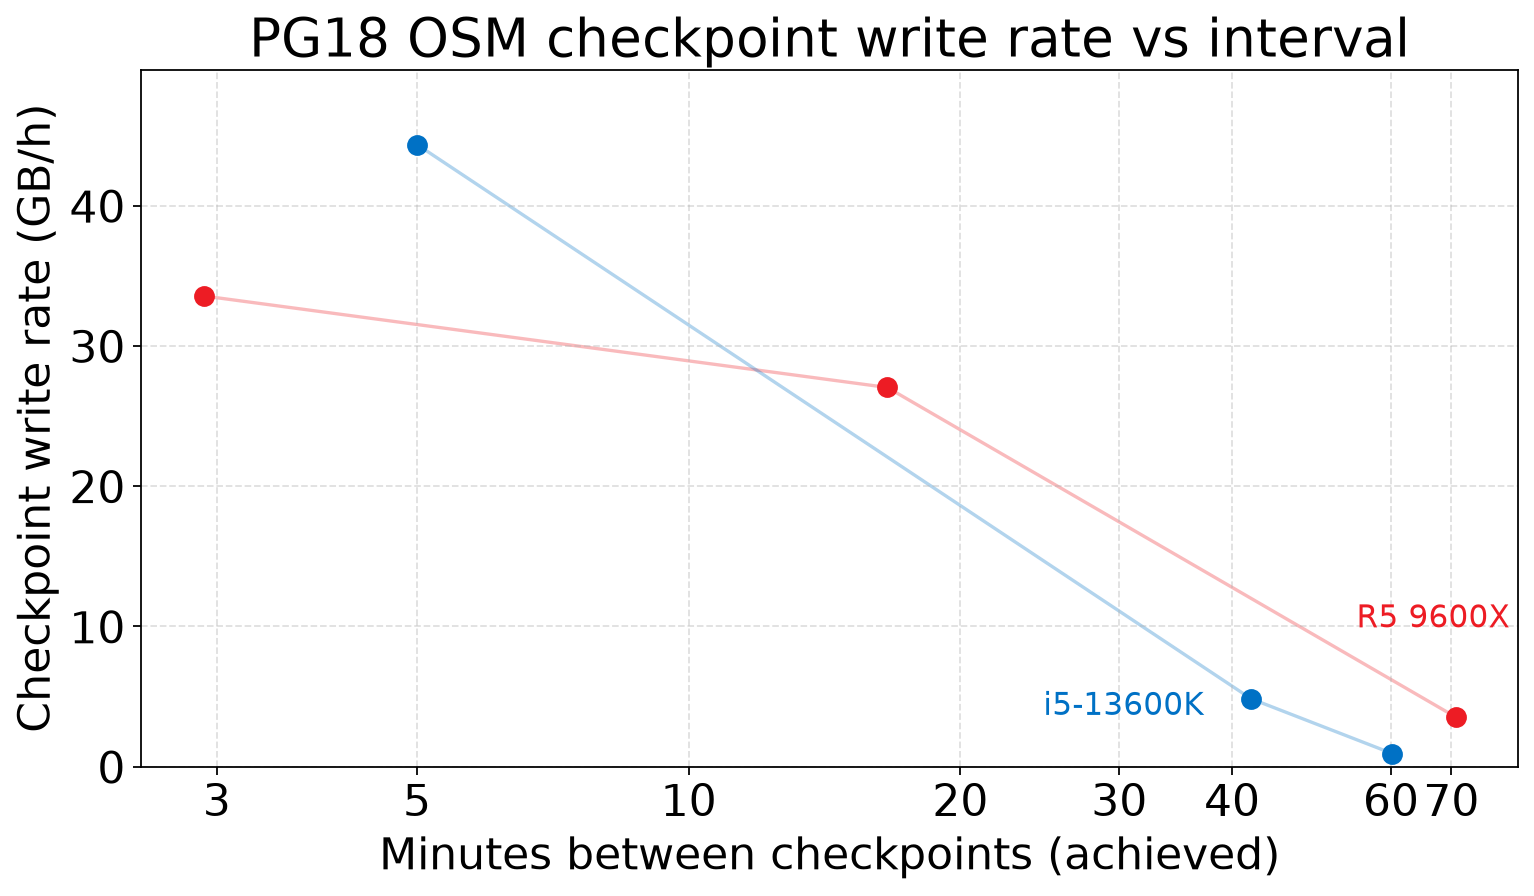
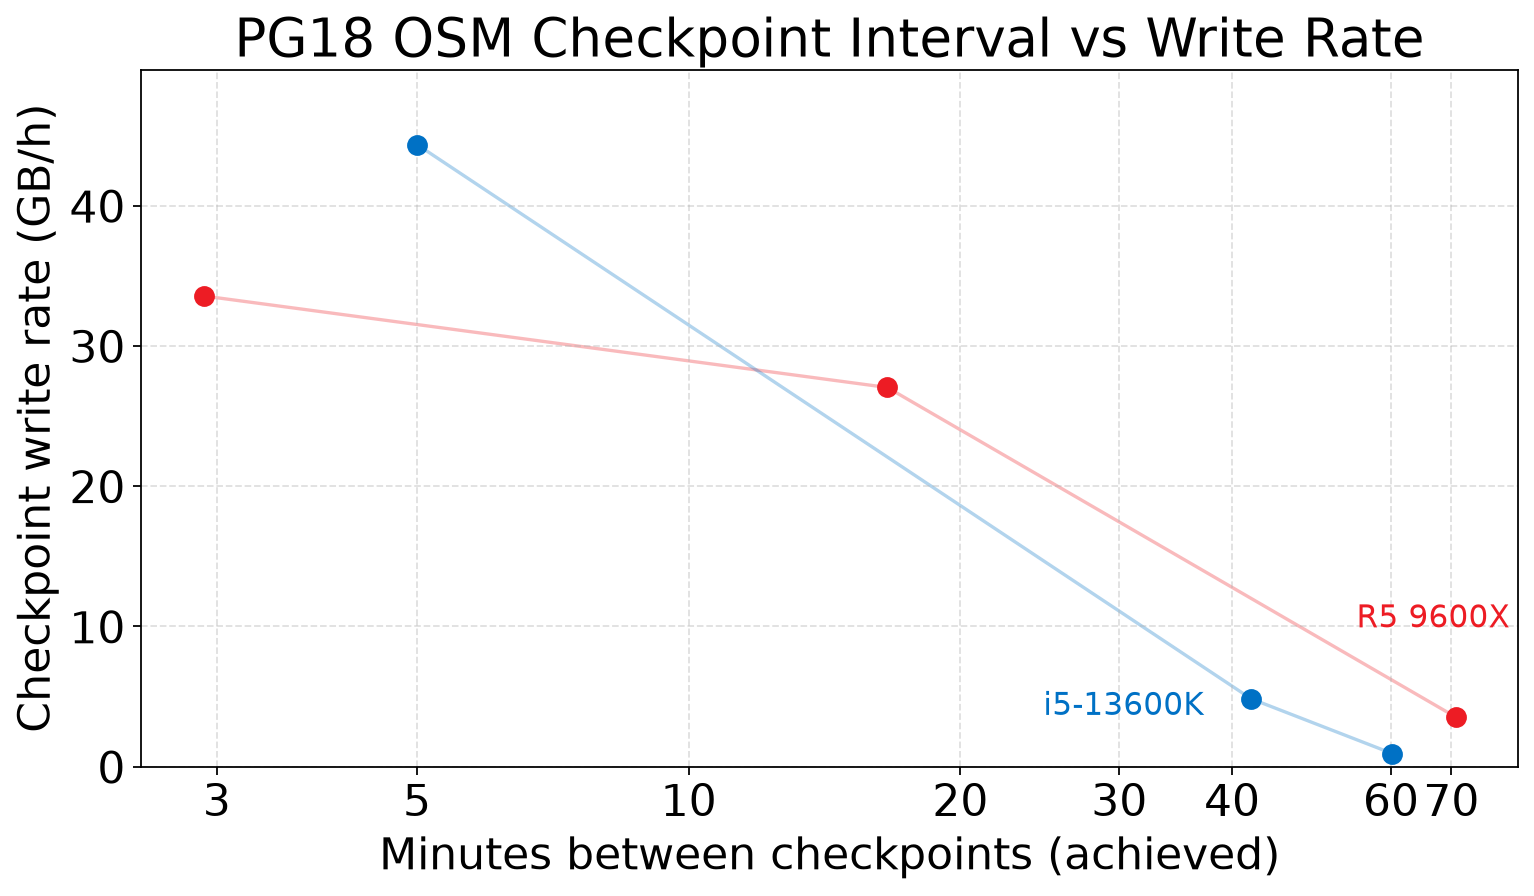
Align PG18 checkpoint chart titles to Interval vs Throughput/Write Rate.

Changed region(s): [[0.1532, 0.0, 0.9498, 0.0625]]

diff --git a/reports/osm-checkpoint.py b/reports/osm-checkpoint.py
@@ -225,7 +225,7 @@ def plot_throughput(df: pd.DataFrame, output: Path, pg: str, show: bool = False)
         df,
         y_col="overall_kips",
         ylabel="Throughput (kNodes/s)",
-        title=f"PG{pg} OSM load vs checkpoint interval",
+        title=f"PG{pg} OSM Checkpoint Interval vs Throughput",
         output=output,
         y_min=500,
         label_dy={
@@ -243,7 +243,7 @@ def plot_write_rate(df: pd.DataFrame, output: Path, pg: str, show: bool = False)
         df,
         y_col="chkp_gbph",
         ylabel="Checkpoint write rate (GB/h)",
-        title=f"PG{pg} OSM checkpoint write rate vs interval",
+        title=f"PG{pg} OSM Checkpoint Interval vs Write Rate",
         output=output,
         y_min=0,
         label_dy={
